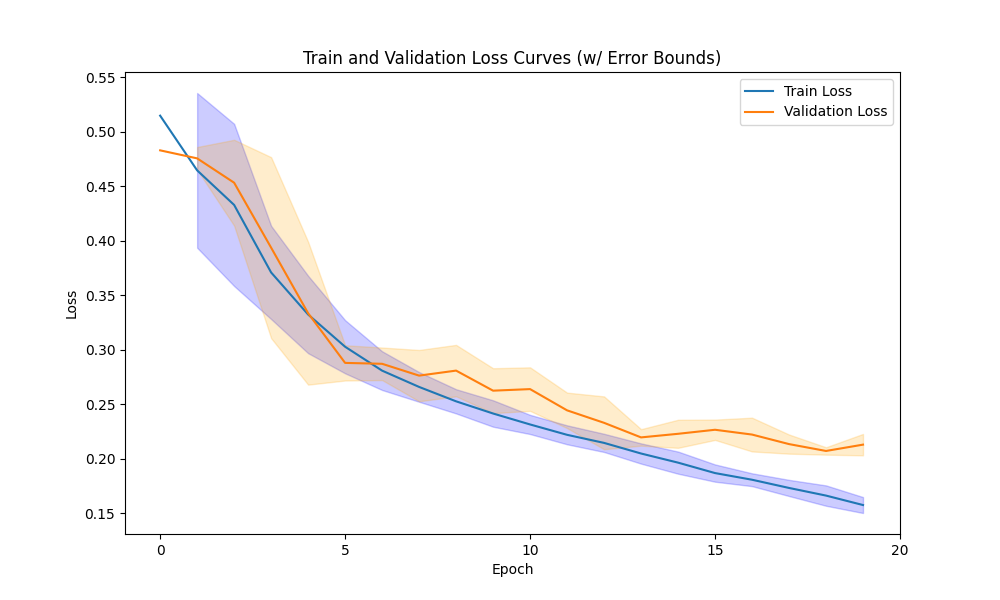
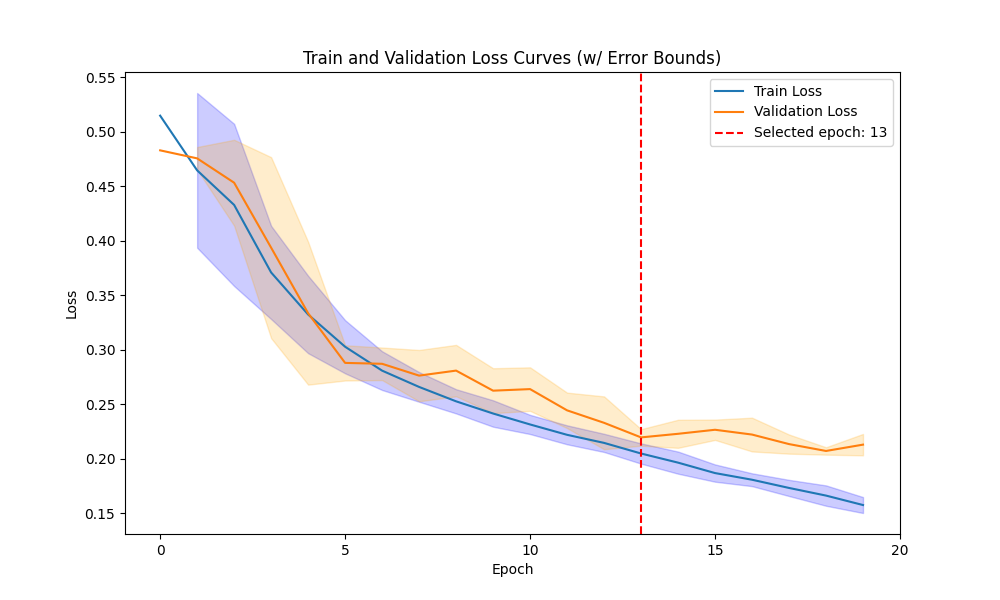
Better plotting

Changed region(s): [[0.713, 0.12, 0.899, 0.24]]

diff --git a/plots/plot2.py b/plots/plot2.py
@@ -36,6 +36,10 @@ plt.plot(data.index, data["Validation Loss Smooth"], label='Validation Loss')
 plt.fill_between(data.index, data["Validation Loss Smooth"] - data["Validation Loss Std"], data["Validation Loss Smooth"] + data["Validation Loss Std"],
                  color='orange', alpha=0.2)
 
+# Adding a vertical line at a specific x-value (e.g., x=50)
+specific_x_value = 47  # Replace this value with your desired x-value
+plt.axvline(x=specific_x_value, color='red', linestyle='--', label=f'Selected epoch: {specific_x_value}')
+
 # Labeling the axes and the plot
 plt.xlabel('Epoch')
 plt.ylabel('Loss')
